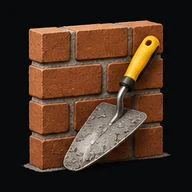
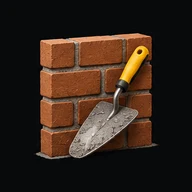
Icone: oggetti interi dentro il cerchio, bordo giallo esterno
Claude-Session: https://claude.ai/code/session_01JSFEvBpqnCsnGDRbL97QSN

diff --git a/style.css b/style.css
@@ -3401,7 +3401,7 @@ body.bertNavOpen{overflow:hidden}
   border-radius:50%;
   overflow:hidden;
   background:#080a0c;
-  box-shadow:0 0 0 2px #f5b900 inset,0 8px 18px rgba(16,23,34,.22);
+  box-shadow:0 0 0 2px #f5b900,0 8px 18px rgba(16,23,34,.22);
   display:flex;
   align-items:center;
   justify-content:center;
@@ -3419,7 +3419,7 @@ body.bertNavOpen{overflow:hidden}
 .card:hover .icon,
 .card.active .icon{
   transform:scale(1.06);
-  box-shadow:0 0 0 3px #ffc400 inset,0 0 0 6px rgba(255,196,0,.22),0 10px 22px rgba(16,23,34,.28)
+  box-shadow:0 0 0 3px #ffc400,0 0 0 7px rgba(255,196,0,.22),0 10px 22px rgba(16,23,34,.28)
 }
 
 /* Contenuto dei riquadri servizi allineato in alto, "Scopri di più" sempre in fondo */
